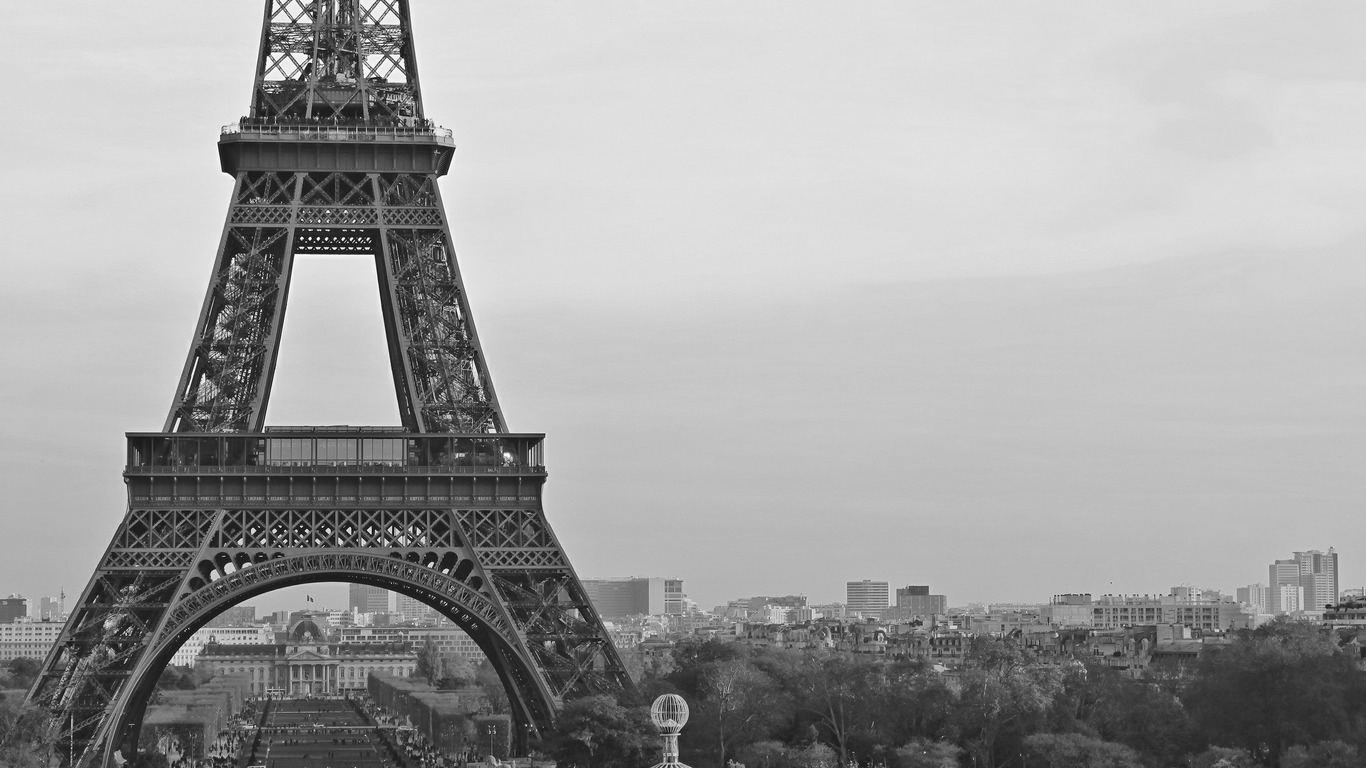
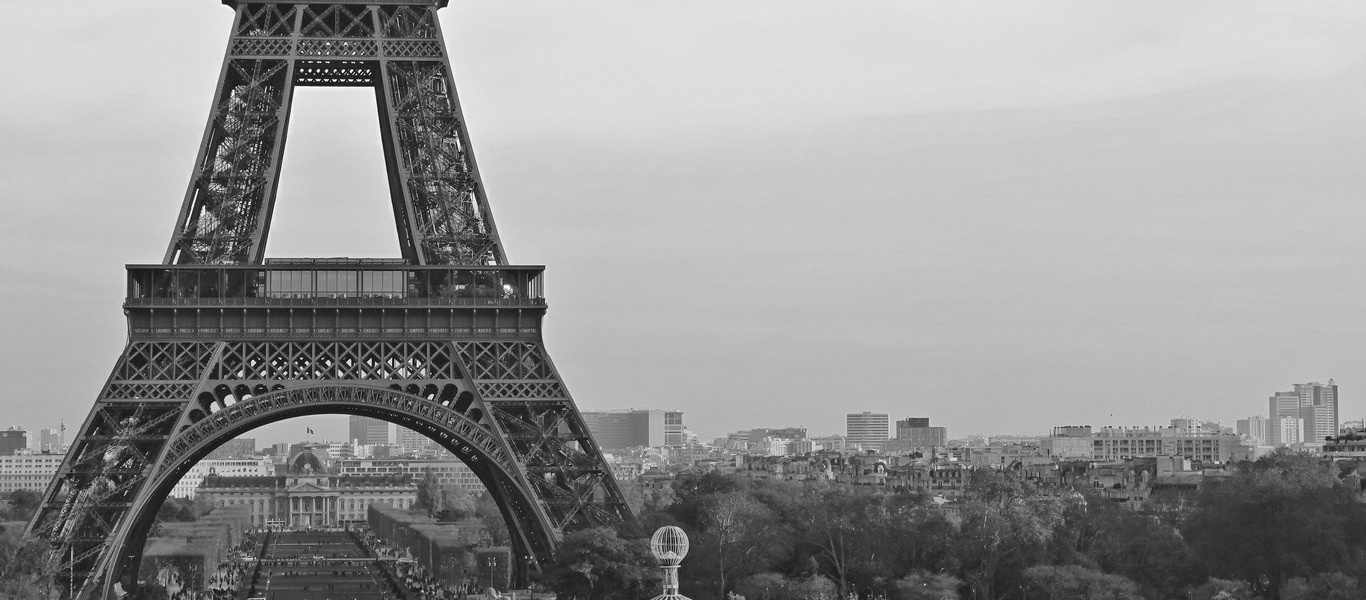
Add files via upload

diff --git a/index.html b/index.html
@@ -47,6 +47,20 @@
             <!-- Portfolio -->
             <div class="showcase">
                 <a name="showcase" id="smoothScroll"></a>
+                <div class="w3-content" style="width-max:100vw;position:relative">
+                    <div class="w3-display-container mySlides">
+                        <img src="assets/images/slide1.jpg" style="width:100%">
+                    </div>
+
+                    <div class="w3-display-container mySlides">
+                        <img src="assets/images/slide2.jpg" style="width:100%">
+                    </div>
+
+                    <a class="w3-btn-floating w3-hover-dark-grey" style="position:absolute;top:45%;left:20px" onclick="plusDivs(-1)"><</a>
+                    <a class="w3-btn-floating w3-hover-dark-grey" style="position:absolute;top:45%;right:20px" onclick="plusDivs(1)">></a>
+
+                </div>
+
             </div>
             <!-- Kontakt -->
             <div class="contact">
@@ -75,6 +89,25 @@
     <!-- Skrypty -->
     <script type="text/javascript" src="https://ajax.googleapis.com/ajax/libs/jquery/1.7.1/jquery.min.js"></script>
     <script type="text/javascript" src="assets/js/smoothscroll.js"></script>
+    <script>
+var slideIndex = 1;
+showDivs(slideIndex);
+
+function plusDivs(n) {
+  showDivs(slideIndex += n);
+}
+
+function showDivs(n) {
+  var i;
+  var x = document.getElementsByClassName("mySlides");
+  if (n > x.length) {slideIndex = 1}
+  if (n < 1) {slideIndex = x.length}
+  for (i = 0; i < x.length; i++) {
+     x[i].style.display = "none";
+  }
+  x[slideIndex-1].style.display = "block";
+}
+</script>
 </body>
 
 </html>

diff --git a/assets/css/main.css b/assets/css/main.css
@@ -45,11 +45,11 @@ html, body {
 }
 
 .about {
-    height: 100vh;
+    /*height: 100vh;*/
     background-color: #F5F5F5;
-    padding-top: 10vh;
     text-align: center;
     font-size: 1.8vw;
+    padding: 10vh;
 }
 
 .about b {
@@ -57,26 +57,39 @@ html, body {
 }
 
 .img-circle {
-    width: 300px;
-    height: 300px;
+    width: 20vw;
+    /*height: 30%;*/
     border-radius: 50%;
     box-shadow: 0 1px 3px rgba(0, 0, 0, 0.2);
 }
 
 .showcase {
     /*width: 100vw;*/
-    height: 100vh;
-    background: url("http://www.planwallpaper.com/static/images/41-Best-and-Coolest-Collection-HD-Wallpapers-Ever-1.jpg");
-    background-size: cover;
-    background-repeat: no-repeat;
+    /*height: 100vh;*/
+}
+
+.showcase a{
+  color: #E0F2F1;
+  font-size: 8vh;
+  text-decoration: none;
+  cursor: pointer;
+}
+
+.showcase a:hover{
+  color: #FFF;
+  font-size: 8vh;
+  text-decoration: none;
+  coursor: pointer;
+
 }
 
 .contact {
-    height: 100vh;
+    /*height: 100vh;*/
     /*width: 100vw;*/
     padding-top: 15vh;
-    padding-left: 35vw;
-    padding-right: 35vw;
+    padding-bottom: 15vh;
+    padding-left: 30vw;
+    padding-right: 30vw;
     background-color: #009688;
 }
 
@@ -99,7 +112,7 @@ input[type=text] {
     border: 1px solid #E0F2F1;
     background: #E0F2F1;
     border-radius: 1px;
-    width: 30vw;
+    width: 39vw;
     height: 3.2vh;
     box-shadow: 0 1px 3px rgba(0, 0, 0, 0.2);
 }
@@ -127,7 +140,7 @@ textarea {
     border: 1px solid #E0F2F1;
     background: #E0F2F1;
     border-radius: 1px;
-    width: 30vw;
+    width: 39vw;
     height: 40vh;
     box-shadow: 0 1px 3px rgba(0, 0, 0, 0.2);
 }
